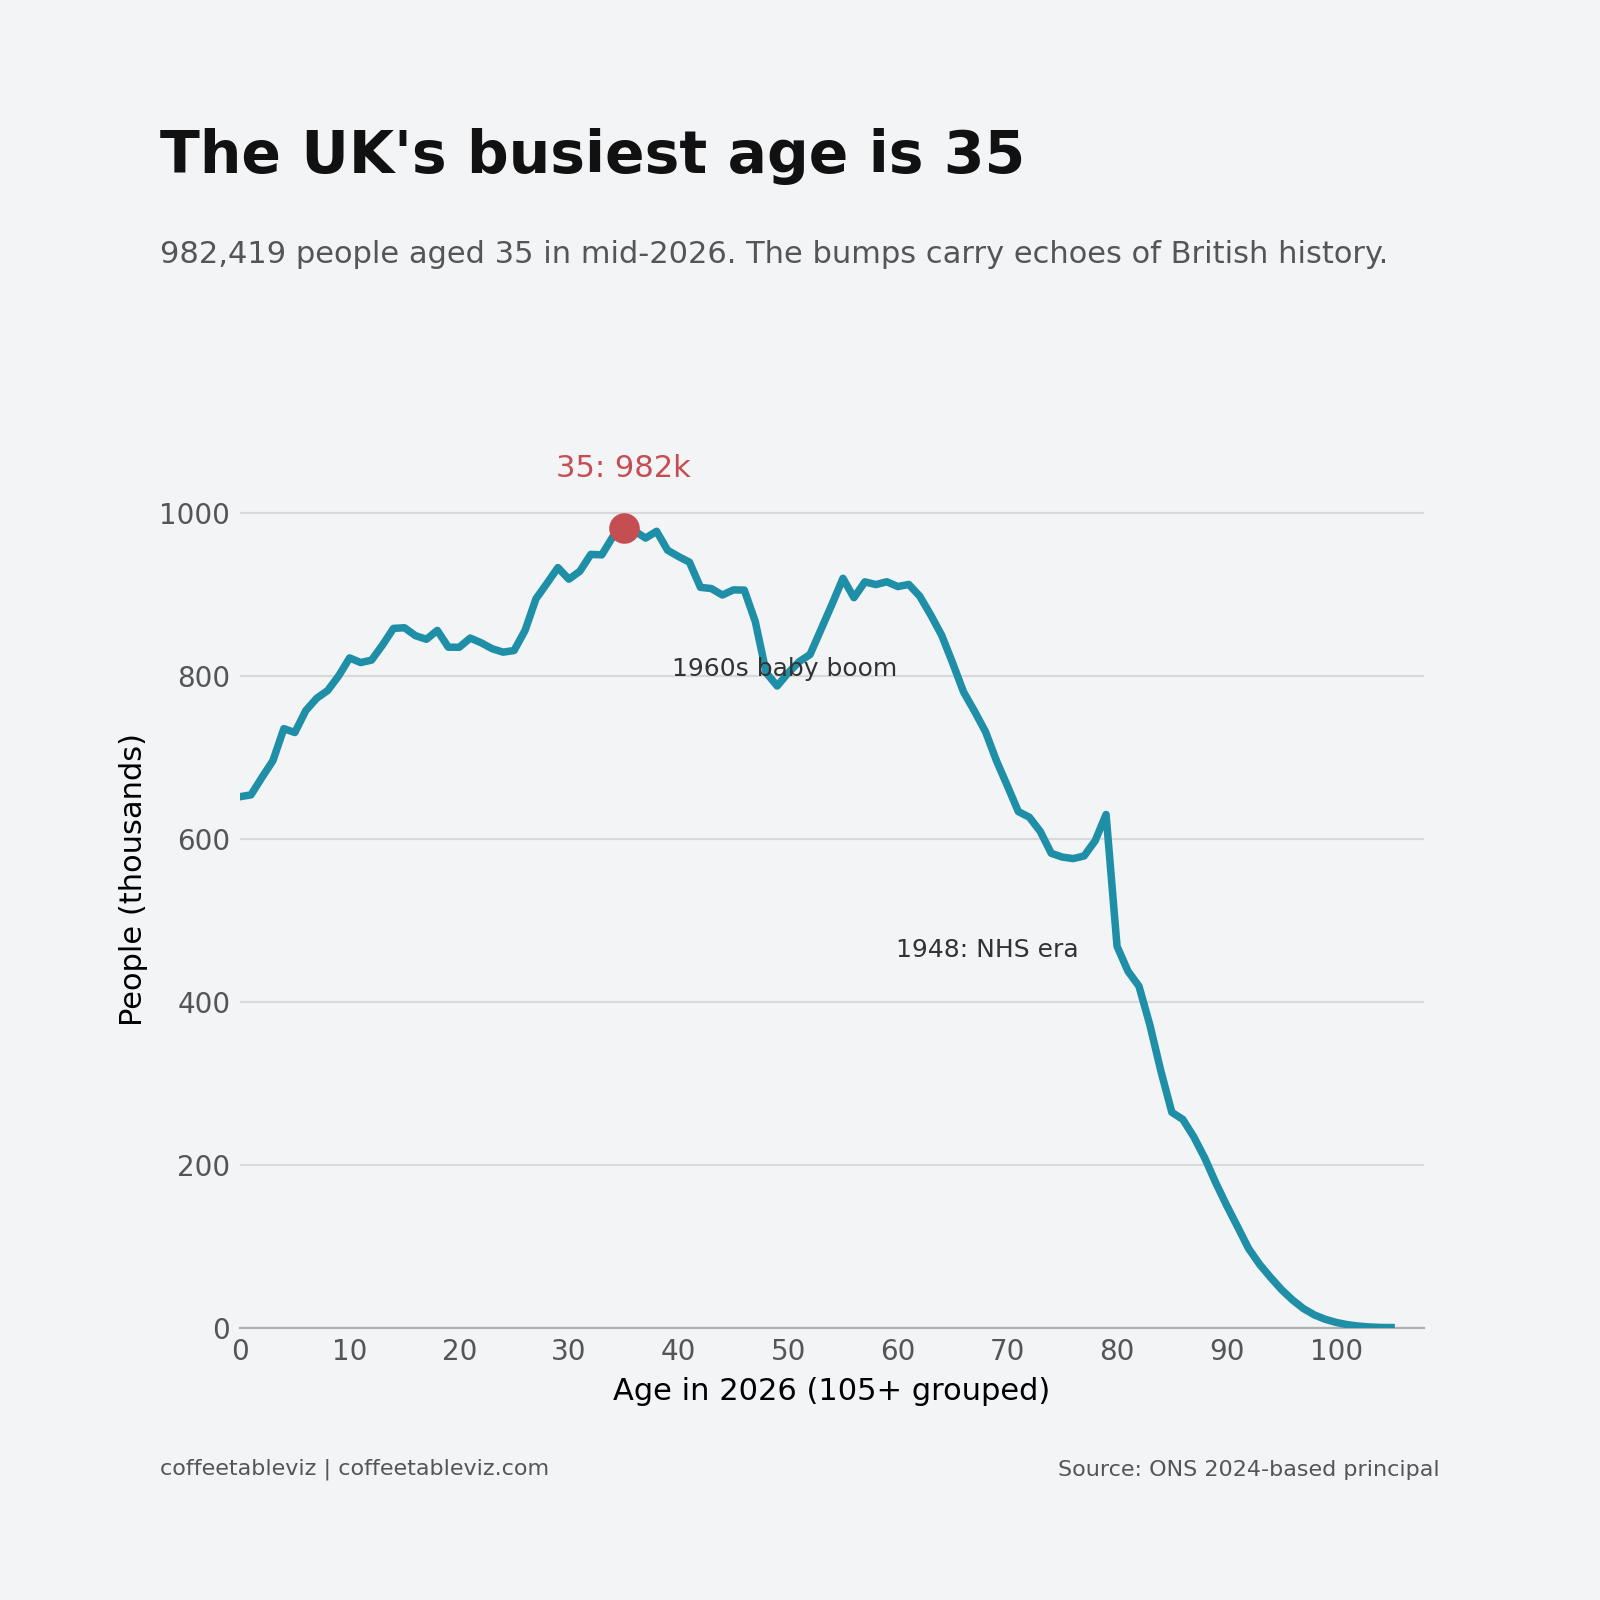
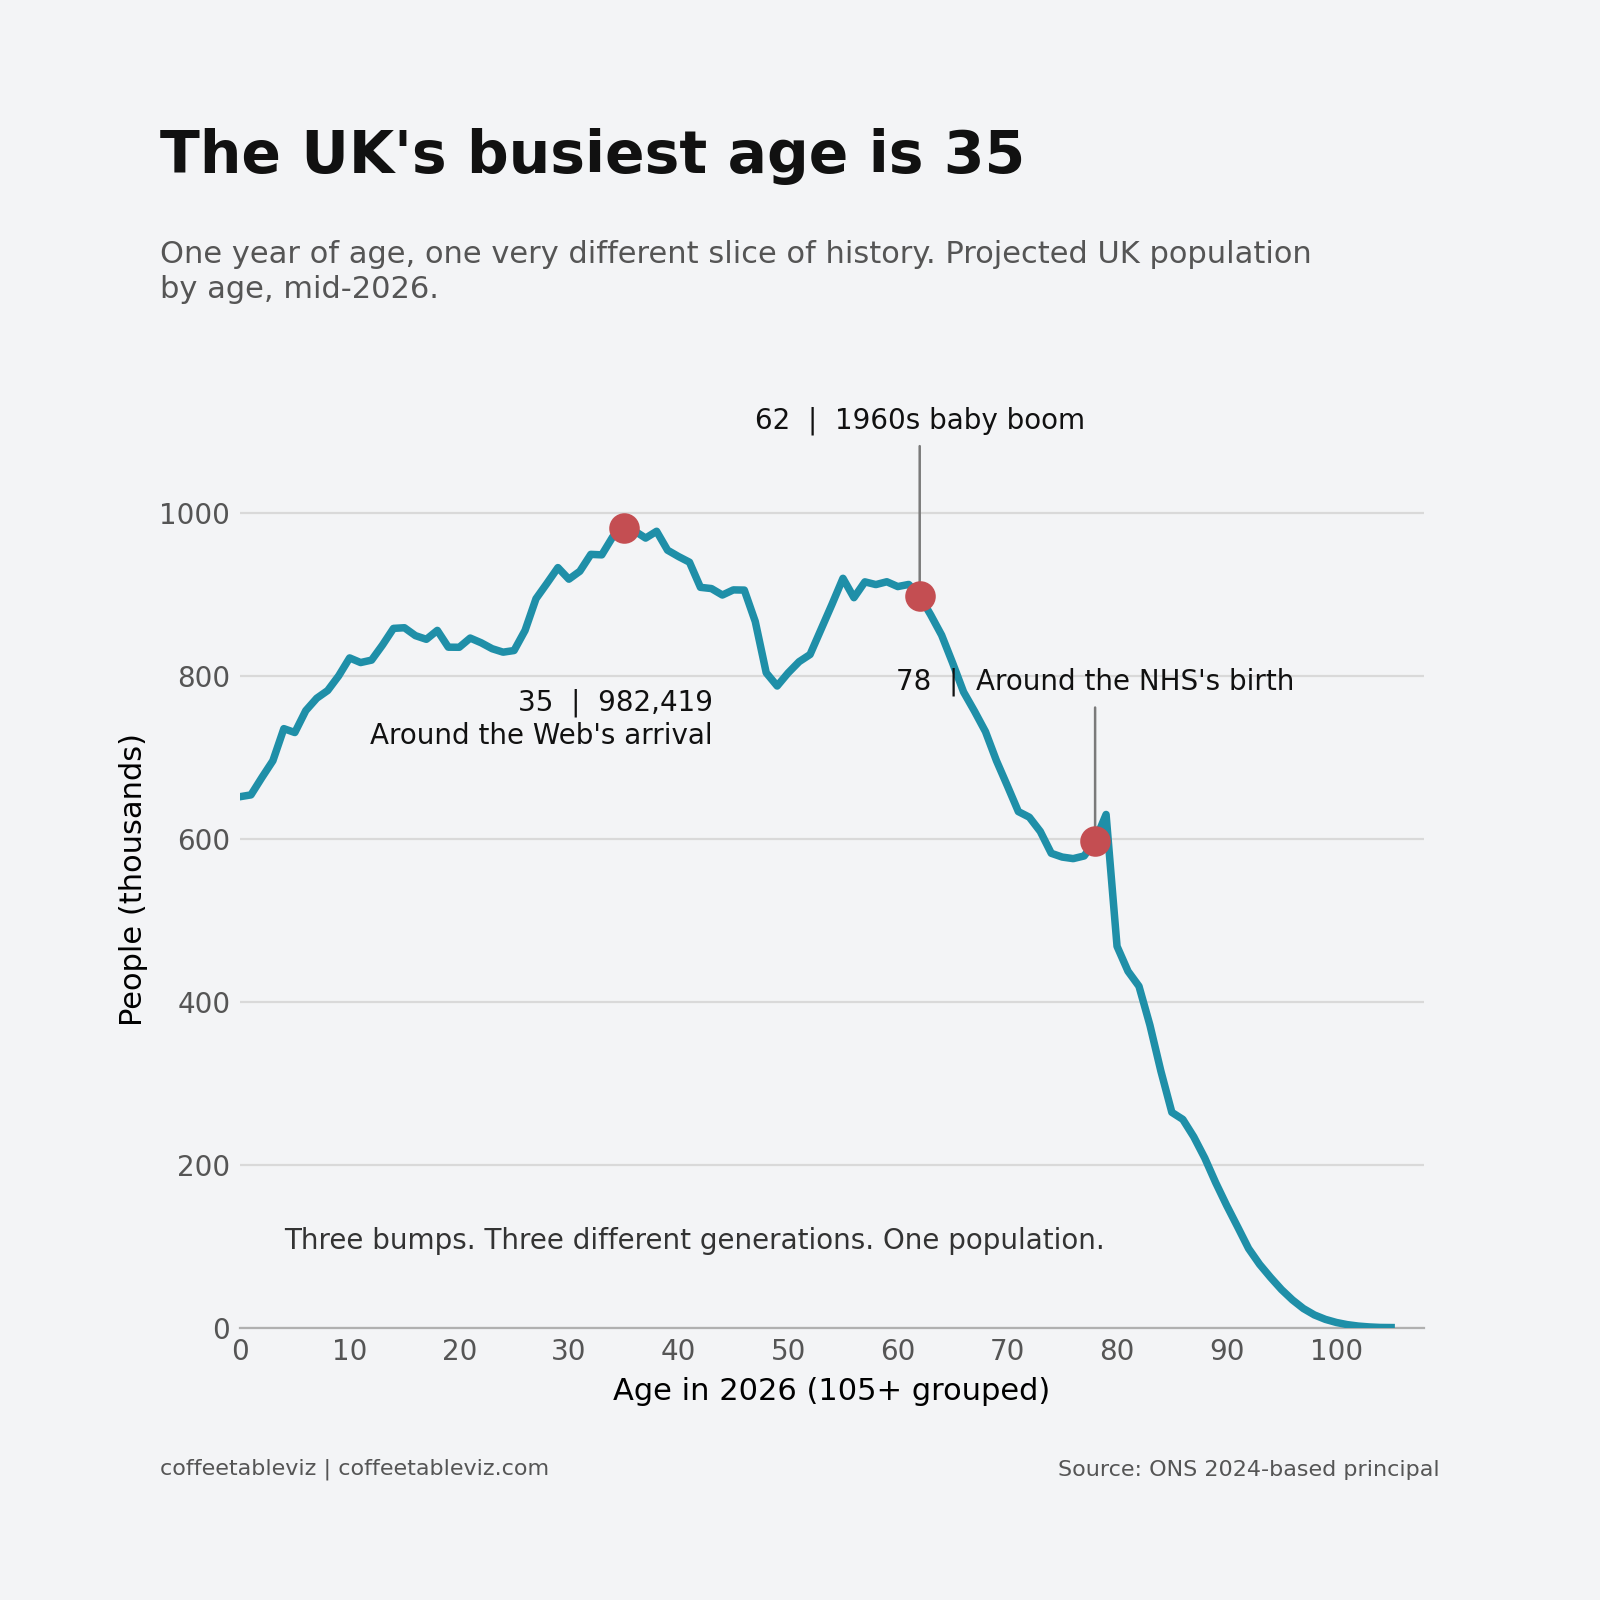
Repair UK population article feature asset and original chart annotations

diff --git a/archive/projects/2026-10-uk-changing-population/config/chart_01_age_profile.py b/archive/projects/2026-10-uk-changing-population/config/chart_01_age_profile.py
@@ -49,7 +49,7 @@ CHART_CONFIG = {
     "chart_type": "line",
     "story_angle": "single_series_trend",
     "title": "The UK's busiest age is 35",
-    "subtitle": "982,419 people aged 35 in mid-2026. The bumps carry echoes of British history.",
+    "subtitle": "One year of age, one very different slice of history. Projected UK population by age, mid-2026.",
     "x_col": "age",
     "y_col": "people_thousands",
     "x_label": "Age in 2026 (105+ grouped)",
@@ -59,14 +59,22 @@ CHART_CONFIG = {
     "y_axis_max": 1100,
     "y_tick_interval": 200,
     "sort": {"by": "age", "ascending": True},
-    "highlight_points": [{"age": 35}],
+    "highlight_points": [{"age": 35}, {"age": 62}, {"age": 78}],
     "annotate_points": [
-        {"age": 35, "text": "35: 982k", "xytext": (0, 16), "ha": "center", "va": "bottom",
-         "fontsize": 11, "color": "#C44E52", "arrowprops": None},
-        {"age": 78, "text": "1948: NHS era", "xytext": (-6, -35), "ha": "right", "va": "top",
-         "fontsize": 9, "arrowprops": None},
-        {"age": 62, "text": "1960s baby boom", "xytext": (-8, -22), "ha": "right", "va": "top",
-         "fontsize": 9, "arrowprops": None}
+        {"age": 35, "text": "35  |  982,419\nAround the Web's arrival",
+         "xytext": (32, -58), "ha": "right", "va": "top",
+         "fontsize": 10, "color": "#111111", "arrowprops": None},
+        {"age": 62, "text": "62  |  1960s baby boom",
+         "xytext": (0, 58), "ha": "center", "va": "bottom",
+         "fontsize": 10, "color": "#111111",
+         "arrowprops": {"arrowstyle": "-", "color": "#7A7A7A", "lw": 0.9}},
+        {"age": 78, "text": "78  |  Around the NHS's birth",
+         "xytext": (0, 52), "ha": "center", "va": "bottom",
+         "fontsize": 10, "color": "#111111",
+         "arrowprops": {"arrowstyle": "-", "color": "#7A7A7A", "lw": 0.9}},
+        {"x": 4, "y": 90, "text": "Three bumps. Three different generations. One population.",
+         "xytext": (0, 0), "ha": "left", "va": "bottom",
+         "fontsize": 10, "color": "#333333", "arrowprops": None},
     ],
     "output_file": "output/01_uk_age_profile_2026.png",
 }

diff --git a/archive/projects/2026-10-uk-changing-population/README.md b/archive/projects/2026-10-uk-changing-population/README.md
@@ -19,7 +19,7 @@ These three charts are not uploaded from local renders. The archived output and 
 
 - Short, light-hearted article and three-chart narrative: approved.
 - Three rendered images: require GitHub Actions output and visual inspection before merge.
-- Feature illustration: original approved single-scene Westminster Bridge asset is *not* generated by the chart renderer. **Still requires separately adding the exact approved illustration at \`site/assets/charts/uk_ageing_feature.png\`.** It must not be silently substituted or regenerated.
+- Feature illustration: original approved single-scene Westminster Bridge asset is *not* generated by the chart renderer. **Still requires separately adding the exact approved illustration at \`site/assets/charts/uk_ageing_feature.webp\`.** It must not be silently substituted or regenerated.
 - Page image paths must exist on branch and Jekyll/mobile QA must pass; do not merge before all four paths are present.
 - Publishing via GitHub Pages occurs only after explicit final approval and PR merge.
 - House chart QA: zero-based comparison bars, exact units, equal safe margins, legible historical annotations, no clipping.

diff --git a/site/_posts/2026-10-15-the-uk-is-getting-older-but-not-all-at-once.md b/site/_posts/2026-10-15-the-uk-is-getting-older-but-not-all-at-once.md
@@ -6,8 +6,8 @@ permalink: /stories/the-uk-is-getting-older-but-not-all-at-once/
 description: "The UK's busiest age is 35. By 2050, the population aged 85+ is projected to more than double. From Live Aid to Doctor Who, the age chart has quite a soundtrack."
 category: Data Stories
 read_time: 2 minute read
-card_image: /assets/charts/uk_ageing_feature.png
-hero_image: /assets/charts/uk_ageing_feature.png
+card_image: /assets/charts/uk_ageing_feature.webp
+hero_image: /assets/charts/uk_ageing_feature.webp
 hero_alt: "Single-scene stencil illustration of different generations walking across a bridge in a British city, with older figures highlighted in muted red to symbolise the changing age balance."
 ---
 
